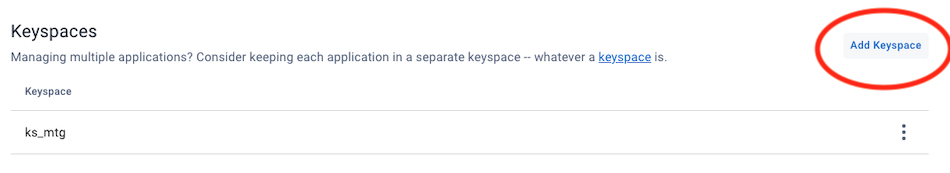
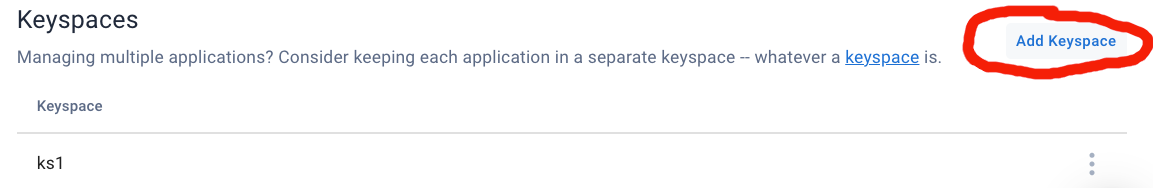
updates for API Days NY 2022

diff --git a/README.md b/README.md
@@ -1,9 +1,9 @@
-## 🎓🔥 Expose Rest,Graphql,Grpc Apis on Top for Your Databases 🔥🎓
+## 🎓🔥 Expose Rest, Graphql, Grpc Apis on Top for Your Databases 🔥🎓
 
 [![License Apache2](https://img.shields.io/hexpm/l/plug.svg)](http://www.apache.org/licenses/LICENSE-2.0)
 [![Discord](https://img.shields.io/discord/685554030159593522)](https://discord.com/widget?id=685554030159593522&theme=dark)
 
-This intructions will lead you to step by step operations for the talks at DeveloperWeek Austin
+This instructions will lead you to step by step operations for the talks at DeveloperWeek Austin
 
 ## Table of content
 
@@ -34,13 +34,15 @@ You will find below which values to enter for each field.
 
 - **For the database name** - `free_db.` While Astra allows you to fill in these fields with values of your own choosing, please follow our recommendations to ensure the application runs properly.
 
-- **For the keyspace name** - `ks1`. It's really important that you use the name "free" for the code to work.
+- **For the keyspace name** - `ks1`. It's really important that you use the name "ks1" for the code to work.
 
-_You can technically use whatever you want and update the code to reflect the keyspace. This is really to get you on a happy path for the first run._
+_You can technically use whatever you want and update the code to reflect the keyspace name. This is really to get you on a happy path for the first run._
 
-- **For provider and region**: Choose and provider (either GCP or AWS). Region is where your database will reside physically (choose one close to you or your users).
+- **For provider and region**: Choose GCP as a provider. Region is where your database will reside physically (choose one close to you or your users...you may not have a lot of "free" choices).
 
 - **Create the database**. Review all the fields to make sure they are as shown, and click the `Create Database` button.
+
+- **Save your secure token details**: It's a good idea to save the auto-generated token details off at this point.  You can click the "Copy" icon or download them locally as a JSON file.
 
 You will see your new database `pending` in the Dashboard.
 
@@ -89,12 +91,12 @@ describe ks1;
 
 ```sql
 INSERT INTO videos(videoid, email, title, upload, url, tags, frames, formats)
-VALUES(uuid(), 'clu@sample.com', 'sample video', 
+VALUES(uuid(), 'clu@sample.com', 'sample video',
      toTimeStamp(now()), 'http://google.fr',
      { 'cassandra','accelerate','2020'},
-     [ 1, 2, 3, 4], 
+     [ 1, 2, 3, 4],
      { 'mp4':{width:1,height:1},'ogg':{width:1,height:1}});
-     
+
 INSERT INTO videos(videoid, email, title, upload, url)
 VALUES(uuid(), 'clu@sample.com', 'video2', toTimeStamp(now()), 'http://google.fr');
 ```
@@ -110,7 +112,7 @@ INSERT INTO videos JSON '{
      "url": "http://google.fr",
      "frames": [1,2,3,4],
      "tags":   [ "cassandra","accelerate", "2020"],
-     "formats": { 
+     "formats": {
         "mp4": {"width":1,"height":1},
         "ogg": {"width":1,"height":1}
      }
@@ -142,20 +144,34 @@ Role: `Database Administrator`
 
 Copy the token value (eg `AstraCS:KDfdKeNREyWQvDpDrBqwBsUB:ec80667c....`) in your clipboard and save the CSV this value would not be provided afterward.
 
+_If you have your auto-generated token details from before, you should be able to skip this step._
+
 **👁 Expected output**
 
 ![image](pics/astra-token.png?raw=true)
 
 Now launch the swagger UI
 
+ - Click on the "Connect" tab at the top, and then on the "REST API" entry in the left nav.
+
+![image](pics/stargate-connect-restapi?raw=true)
+
+Scroll down to the "Launching Swagger UI" section, and click the link.
+
+_Everyone's Swagger UI link will be unique to their instance of Astra DB._
+
 ![image](pics/launch-swagger.png?raw=true)
 
-This walkthrough has been realized using the [REST API Quick Start](https://stargate.io/docs/stargate/0.1/quickstart/quick_start-rest.html). Here we will the the [DATA](http://localhost:8082/swagger-ui/#/data) or SwaggerUI
+You can also follow the link to the [REST API Quick Start](https://stargate.io/docs/stargate/1.0/quickstart/quick_start-rest.html) and run Stargate locally. Here we will use the [SwaggerUI](http://localhost:8082/swagger-ui/#/data).
 
 #### ✅ 3b. List keyspaces
 
+- Scroll to the "schemas" section of the Swagger spec.
+
+- For all exercises, remember that we're using the *v2* API version.
+
 - [`GET: /v2/schemas/keyspaces`](http://localhost:8082/swagger-ui/#/schemas/getAllKeyspaces)
- 
+
 ![image](https://raw.githubusercontent.com/datastaxdevs/conference-2021-apachecon-stargate/main/pics/swagger-list-keyspace.png?raw=true)
 
 - Click `Try it out`
@@ -240,7 +256,7 @@ This walkthrough has been realized using the [REST API Quick Start](https://star
 
 #### ✅ 3f. Insert Rows
 
-*Notice than for the DML you move to `DATA`. Make sure you are using url with `V2`, `V1` would also work but this is NOT the same payload.* 
+*Notice for the DML you scroll to the `data` section. Make sure you are using url with `V2`, `V1` would also work but this is NOT the same payload.*
 
 - [POST /v2/keyspaces/{keyspaceName}/{tableName}](http://localhost:8082/swagger-ui/#/data/createRow)
 
@@ -323,28 +339,11 @@ You can note that the output code is `201` and return your primary key `{ "first
 - primaryKey; 'Cedrick`
 - Click Execute
 
-#### ✅ 3j. Searches
-
-- [GET /v2/keyspaces/{keyspaceName}/{tableName}](http://localhost:8082/swagger-ui/#/data/getRowWithWhere)
-
-![image](https://raw.githubusercontent.com/datastaxdevs/conference-2021-apachecon-stargate/main/pics/swagger-searchrows.png?raw=true)
-
-
-- X-Cassandra-Token: `<your_token>`
-- keyspaceName: `ks1`
-- tableName: `users`
-- whereClause; '{"firstname": {"$eq":"David"}}`
-- Click Execute
-
-I let you try with `{"lastname": {"$eq":"Gilardi"}}`.. expected right ?
-
-[🏠 Back to Table of Contents](#table-of-content)
-
 ## 4. Working with DOCUMENT API
 
 This walkthrough has been realized using the [Quick Start](https://stargate.io/docs/stargate/1.0/quickstart/quick_start-document.html)
 
-locate the Document part in the Swagger UI
+Scroll to the top to locate the "documents" section in the Swagger UI.
 
 ![image](pics/swagger-docs.png?raw=true)
 
@@ -390,7 +389,7 @@ locate the Document part in the Swagger UI
      "url": "http://google.fr",
      "frames": [1,2,3,4],
      "tags":   [ "cassandra","accelerate", "2020"],
-     "formats": { 
+     "formats": {
         "mp4": {"width":1,"height":1},
         "ogg": {"width":1,"height":1}
      }
@@ -445,14 +444,6 @@ locate the Document part in the Swagger UI
 
 This walkthrough has been realized using the [GraphQL Quick Start](https://stargate.io/docs/stargate/1.0/quickstart/quick_start-graphql.html)
 
-**✅ Open GraphQL Playground** :
-
-Open the playground
-![image](pics/launch-graphql.png?raw=true)
-
-**👁 Expected output**
-![image](pics/playground-home.png?raw=true)
-
 **✅ Creating a keyspace** :
 
 Before you can start using the GraphQL API, you must first create a Cassandra keyspace and at least one table in your database. If you are connecting to a Cassandra database with existing schema, you can skip this step.
@@ -463,6 +454,13 @@ Then provide the keyspace name `library`:
 
 ![image](pics/create-keyspace-2.png?raw=true)
 
+**✅ Open GraphQL Playground** :
+
+Open the playground
+![image](pics/launch-graphql.png?raw=true)
+
+**👁 Expected output**
+![image](pics/playground-home.png?raw=true)
 
 **✅ Creating a Table** :
 
@@ -505,7 +503,7 @@ First, let’s navigate to your new keyspace `library` inside the playground. Ch
 - Use this query
 ```
 mutation insert2Books {
-  moby: insertbooks(value: {title:"Moby Dick", author:"Herman Melville"}) {
+  moby: insertbooks(value: {title:"Moby Dick", author:"Herman Melvill"}) {
     value {
       title
     }
@@ -531,7 +529,7 @@ mutation insert2Books {
 
 **✅ Read data** :
 
-Stay on the same screen and sinmply update the query with 
+Stay on the same screen and sinmply update the query with
 ```
 query oneBook {
     books (value: {title:"Moby Dick"}) {
@@ -553,5 +551,3 @@ query oneBook {
 ## THE END
 
 Congratulation your made it to the END.
-
-
